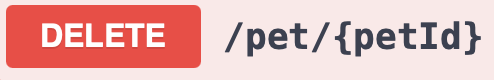
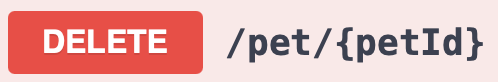
modify width of pictures in feature.md

diff --git a/report/Features.md b/report/Features.md
@@ -237,7 +237,7 @@ I would like to show results at first, I guess you do so, if you are interested 
 
 #### **1. Upload Image:**
 
-<img src="../images/API_post_pet_id_uploadImage.png" alt="API_post_pet_image" style="zoom:50%;" />
+<img src="../images/API_post_pet_id_uploadImage.png" alt="API_post_pet_image" width = "300" />
 
 Fisrtly we choose one existing pet with id: 10000001, to request to upload an image. Then we get:
 
@@ -267,7 +267,7 @@ curl -X 'POST' \
 
 After operations above, we retrieved this pet details, by get pet by id API:
 
-<img src="../images/API_get_pet_byId.png/" alt="API_get_pet_byId" style="zoom:50%;" />
+<img src="../images/API_get_pet_byId.png/" alt="API_get_pet_byId" width = "300" />
 
 ```json
 // verify request:
@@ -301,7 +301,7 @@ But we still need to implement uploading a photo, we will achieve that and descr
 
 #### **2. Add new pet**
 
-<img src="../images/API_post_pet.png" alt="API_post_pet" style="zoom:50%;" />
+<img src="../images/API_post_pet.png" alt="API_post_pet" width = "210" />
 
 ```json
 // Request URL
@@ -402,7 +402,7 @@ As we can see above, if we assign id = 0 or directly delete the line of assignin
 
 #### **3. Update an existing pet**
 
-<img src="../images/API_put_pet.png" alt="API_put_pet" style="zoom:50%;" />
+<img src="../images/API_put_pet.png" alt="API_put_pet" width = "200" />
 
 ```json
 // Response body (with 200)
@@ -432,7 +432,7 @@ Nothing special about this API, it works well. The usage of it is input the pet'
 
 #### **4. Find pets by status**
 
-<img src="../images/API_get_pet_bystatus.png" alt="API_get_pet_bystatus" style="zoom:50%;" />
+<img src="../images/API_get_pet_bystatus.png" alt="API_get_pet_bystatus" width = "300" />
 
 This API works well without any bugs, but helped us find an other bug: the backend used big int type for the id which are automatically generated. And at frontend JS and json.parse() cannot handle that big int, result in lose precision of the number. Here we are going to discribe how we find it and verify it is certain error instead of others. Next chapter we will discuss how we "fix" it by avoiding it happens.
 
@@ -440,27 +440,27 @@ This API works well without any bugs, but helped us find an other bug: the backe
 
 You can see the screenshot below of the website demo from teachers. When I see this page fisrt time, I was curious about why the ids were the same, which was not reasonable.
 
-<img src="../images/proof_demo_bug.png" alt="image-20210806143437607"  />
+<img src="../images/proof_demo_bug.png" alt="image-20210806143437607" width = "400" />
 
 So we choosed to test it with demo website display, Chrome debug mode preview Response, Chrome raw Response, and POSTMAN Response below. 
 
 **Demo website display:**
 
-<img src="../images/proof_demo.png" alt="image-20210806141941565" style="zoom:50%;" />
+<img src="../images/proof_demo.png" alt="image-20210806141941565" width = "300" />
 
 So I checked in debug mode of Chrome, then found screenshots below:
 
 **Preview of response in Chrome:**
 
-<img src="../images/proof_chrome_preview.png" alt="image-20210806142117446" style="zoom:50%;" />
+<img src="../images/proof_chrome_preview.png" alt="image-20210806142117446" width = "300" />
 
 **Raw response in Chrome:**
 
-![image-20210806142306414](../images/proof_chrome_rawRes.png)
+<img src="../images/proof_chrome_rawRes.png" alt="image-20210806142306414" width = "600" />
 
 **Response in PostMan:**
 
-<img src="../images/proof_postman.png" alt="image-20210806143057712" style="zoom:50%;" />
+<img src="../images/proof_postman.png" alt="image-20210806143057712" width = "400" />
 
 We found that in Postman and Chrome raw results, this pet object has the real id with accurate number, but in the demo site and Chrome preview stage, it shows fake id with losing precision. Then we compared serval pet objects, which had the same problem. So the truth is all the pets has unique id, but sometimes the real id cannot be displayed correctly.
 
@@ -470,11 +470,11 @@ Our deduction is not without foundation, and the final nail in the coffin is the
 
 - We have the data model introduced in https://petstore.swagger.io/ .
 
-<img src="../images/proof_backend.png" alt="image-20210806145025765" style="zoom:50%;" />
+<img src="../images/proof_backend.png" alt="image-20210806145025765" width = "300" />
 
 - We have known that the biggest number json parse in JS can handle is 9007199254740991, 
 
-<img src="../images/proof_js.png" alt="image-20210806145214608" style="zoom:50%;" />
+<img src="../images/proof_js.png" alt="image-20210806145214608" width = "400"/>
 
 and all pets were wrongly displayed whose id is bigger than the MAX number.
 
@@ -488,7 +488,7 @@ Eventually we decided to generate our own short IDs on the front end. The exact 
 
 #### **5. Delete a pet**
 
-![image-20210806163914676](file:///Users/wayne/Desktop/SEGP/web-softwaretools-plain/images/API_delete_pet.png?lastModify=1628264499)
+<img src="../images/API_delete_pet.png" alt="image-20210807215353726" width = "300" />
 
 Tested working well.
 
@@ -511,7 +511,7 @@ curl -X 'DELETE' \
 
 #### **1. Get a user:** 
 
-<img src="../images/API_get_user.png" alt="image-20210806165813199" style="zoom:50%;" />
+<img src="../images/API_get_user.png" alt="image-20210806165813199" width = "300" />
 
 Tested working well.
 
@@ -540,7 +540,7 @@ curl -X 'GET' \
 
 #### **2. Update a user: **
 
-<img src="../images/API_put_user_update.png" alt="image-20210806165907933" style="zoom:50%;" />
+<img src="../images/API_put_user_update.png" alt="image-20210806165907933" width = "300" />
 
 Tested working well.
 
@@ -573,7 +573,7 @@ curl -X 'PUT' \
 
 #### **3. Delete a user: **
 
-<img src="../images/API_delete_user.png" alt="image-20210806165935132" style="zoom:50%;" />
+<img src="../images/API_delete_user.png" alt="image-20210806165935132" width = "300"/>
 
 Tested working well.
 
@@ -595,7 +595,7 @@ curl -X 'DELETE' \
 
 #### **4. User Login: **
 
-<img src="../images/API_get_user_login.png" alt="image-20210806165958390" style="zoom:50%;" />
+<img src="../images/API_get_user_login.png" alt="image-20210806165958390" width = "300"/>
 
 ```json
 // Request:
@@ -615,7 +615,7 @@ If you pay attention, you'll see that I deliberately entered the wrong password 
 
 #### **5. Create a user: **
 
-<img src="../images/API_post_user_create.png" alt="image-20210806170023065" style="zoom:50%;" />
+<img src="../images/API_post_user_create.png" alt="image-20210806170023065" width = "300" />
 
 Tested working well.
 
@@ -857,9 +857,9 @@ const routes: Routes = [
 
 ##### Test Screenshots:
 
-![image-20210807174415423](../images/test_switchMode_buyer.png)
+<img src="../images/test_switchMode_buyer.png" alt="image-20210807174415423" width = "400"/>
 
-![image-20210807174440434](../images/test_switchMode_seller.png)
+<img src="../images/test_switchMode_seller.png" alt="image-20210807174440434" width = "400" />
 
 #### Feature 2: Message Pad
 
@@ -904,7 +904,7 @@ export class MessageService {
 
 ##### Test Screenshots:
 
-![image-20210807204659144](../images/test_message_pad.png)
+<img src="../images/test_message_pad.png" alt="image-20210807204659144" width = "300" />
 
 ### 2. For Seller
 
@@ -945,9 +945,9 @@ export class MessageService {
 
 ##### Test Screenshots:
 
-![image-20210807205027877](../images/test_host_admin_right.png)
+<img src="../images/test_host_admin_right.png" alt="image-20210807205027877" width = "500" />
 
-![image-20210807205058792](../images/test_host_admin_wrong.png)
+<img src="../images/test_host_admin_wrong.png" alt="image-20210807205058792" width = "500" />
 
 #### Feature 3: Showing pets list and Deleting pet
 
@@ -1023,9 +1023,9 @@ import { MessageService } from '../service/message.service';
 
 ##### Test Screenshots:
 
-![image-20210807205823259](../images/test_seller_pets_list.png)
+<img src="../images/test_seller_pets_list.png" alt="image-20210807205823259" width = "200" />
 
-![image-20210807205848953](../images/test_seller_pets_delete.png)
+<img src="../images/test_seller_pets_delete.png" alt="image-20210807205848953" width = "200" />
 
 #### Feature 4: Adding pet
 
@@ -1082,9 +1082,9 @@ add(name: string): void {
 
 ##### Test Screenshots:
 
-![image-20210807211209452](../images/test_seller_add_pet.png)
+<img src="../images/test_seller_add_pet.png" alt="image-20210807211209452" width = "400" />
 
-![image-20210807211219998](../images/test_seller_add_pet_succeed.png)
+<img src="../images/test_seller_add_pet_succeed.png" alt="image-20210807211219998" width = "400" />
 
 #### Feature 5: Showing pet's details and Modifying pet's information 
 
@@ -1179,7 +1179,7 @@ export class PetDetailsComponent implements OnInit {
 
 ##### Test Screenshots:
 
-![image-20210807211410831](../images/test_seller_modify_pet.png)
+<img src="../images/test_seller_modify_pet.png" alt="image-20210807211410831" width = "400"/>
 
 ### 3. For Buyer
 
@@ -1265,9 +1265,9 @@ export class UserRegisterComponent implements OnInit {
 
 ##### Test Screenshots:
 
-![image-20210807212058422](../images/test_buyer_register.png)
+<img src="../images/test_buyer_register.png" alt="image-20210807212058422" width = "400"/>
 
-![image-20210807212108316](../images/test_buyer_register_succeed.png)
+<img src="../images/test_buyer_register_succeed.png" alt="image-20210807212108316" width = "400"/>
 
 #### Feature 2: Login
 
@@ -1378,13 +1378,13 @@ export class UserLoginComponent implements OnInit {
 
 ##### Test Screenshots:
 
-![image-20210807212306728](../images/test_buyer_login_wrong_username.png)
+<img src="../images/test_buyer_login_wrong_username.png" alt="image-20210807212306728" width = "400"/>
 
-![image-20210807212326818](../images/test_buyer_login_wrong_password.png)
+<img src="../images/test_buyer_login_wrong_password.png" alt="image-20210807212326818" width = "400" />
 
-![image-20210807212345080](../images/test_buyer_login.png)
+<img src="../images/test_buyer_login.png" alt="image-20210807212345080" width = "400"/>
 
-![image-20210807212358303](../images/test_buyer_login_succeed.png)
+<img src="../images/test_buyer_login_succeed.png" alt="image-20210807212358303" width = "200" />
 
 #### Feature 4: Editing user information and Deleting user account
 
@@ -1505,7 +1505,7 @@ export class UserDetailsComponent implements OnInit {
 
 ##### Test Screenshots:
 
-![image-20210807212621834](../images/test_buyer_modifying_user.png)
+<img src="../images/test_buyer_modifying_user.png" alt="image-20210807212621834" width = "200" />
 
 #### Feature 5: Showing pets list and Searching by conditions
 
@@ -1609,11 +1609,11 @@ export class CustomerSideComponent implements OnInit {
 
 ##### Test Screenshots:
 
-![image-20210807212831008](../images/test_buyer_pets_list.png)
+<img src="../images/test_buyer_pets_list.png" alt="image-20210807212831008" width = "300" />
 
-![image-20210807212849792](../images/test_buyer_pets_category.png)
+<img src="../images/test_buyer_pets_category.png" alt="image-20210807212849792" width = "300" />
 
-![image-20210807212914214](../images/test_buyer_pets_name.png)
+<img src="../images/test_buyer_pets_name.png" alt="image-20210807212914214" width = "300" />
 
 
 
